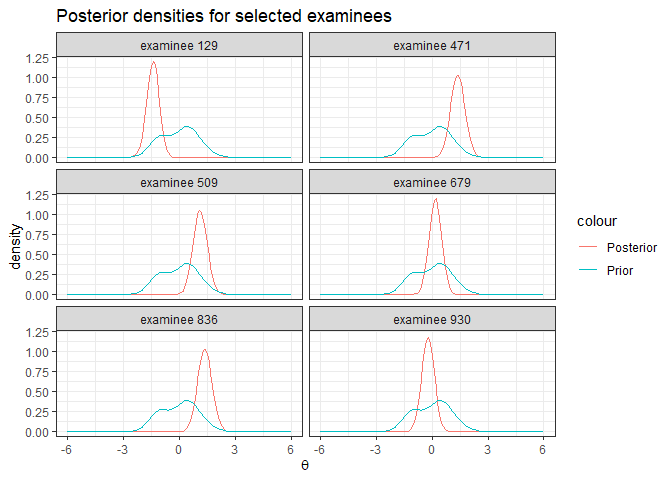
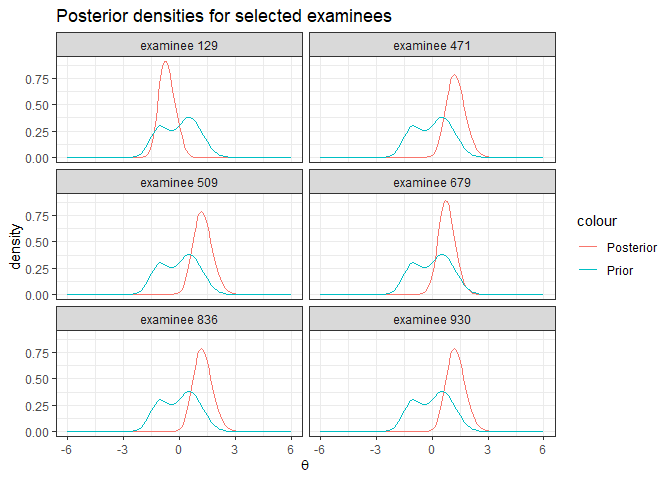
Incremet version number to 1.9.0.

diff --git a/README.md b/README.md
@@ -16,10 +16,9 @@ status](https://www.r-pkg.org/badges/version-last-release/IRTest)](https://CRAN.
 [![codecov](https://codecov.io/gh/SeewooLi/IRTest/branch/master/graph/badge.svg?token=N5RY2MYSM5)](https://app.codecov.io/gh/SeewooLi/IRTest)
 <!-- badges: end -->
 
-**IRTest** is a useful tool for $\mathcal{\color{red}{IRT}}$ (item
-response theory) parameter $\mathcal{\color{red}{est}}\text{imation}$,
-especially when the violation of normality assumption on latent
-distribution is suspected.  
+**IRTest** is a useful tool for (item response theory) parameter
+}imation, especially when the violation of normality assumption on
+latent distribution is suspected.  
 **IRTest** deals with uni-dimensional latent variable.  
 In **IRTest**, including the conventional usage of Gaussian
 distribution, several methods can be applied for estimation of latent
@@ -63,6 +62,9 @@ Followings are the functions of **IRTest**.
 
 - `reliability` calculates marginal reliability coefficient of IRT.
 
+- `latent_distribution` returns evaluated PDF value(s) of an estimated
+  latent distribution.
+
 - `DataGeneration` generates several objects that can be useful for
   computer simulation studies. Among these are simulated item
   parameters, ability parameters and the corresponding item-response
@@ -93,10 +95,10 @@ library(IRTest)
 An artificial data of 1000 examinees and 20 items.
 
 ``` r
-Alldata <- DataGeneration(seed = 1234,
-                          model_D = rep(2,20),
+Alldata <- DataGeneration(seed = 123456789,
+                          model_D = rep(2,10),
                           N=1000,
-                          nitem_D = 20,
+                          nitem_D = 10,
                           latent_dist = "2NM",
                           m=0,
                           s=1,
@@ -111,14 +113,15 @@ theta <- Alldata$theta
 
 - Analysis
 
-For an illustrative purpose, kernel density estimation (KDE) method is
-used for the estimation of latent distribution.
+For an illustrative purpose, the two-component Gaussian mixture
+distribution (2NM) method is used for the estimation of latent
+distribution.
 
 ``` r
 Mod1 <- 
   IRTest_Dich(
     data = data,
-    latent_dist = "KDE"
+    latent_dist = "2NM"
     )
 ```
 
@@ -127,35 +130,35 @@ Mod1 <-
 ``` r
 summary(Mod1)
 #> Convergence:  
-#> Successfully converged below the threshold of 1e-04 on 23rd iterations. 
+#> Successfully converged below the threshold of 1e-04 on 52nd iterations. 
 #> 
 #> Model Fit:  
-#>    deviance   18383.84 
-#>         AIC   18465.84 
-#>         BIC   18667.05 
+#>    deviance   9573.469 
+#>         AIC   9619.469 
+#>         BIC   9732.347 
 #> 
 #> The Number of Parameters:  
-#>        item   40 
-#>        dist   1 
-#>       total   41 
+#>        item   20 
+#>        dist   3 
+#>       total   23 
 #> 
 #> The Number of Items:  
-#> dichotomous   20 
+#> dichotomous   10 
 #> polyotomous   0 
 #> 
 #> The Estimated Latent Distribution:  
-#> method - KDE 
+#> method - 2NM 
 #> ----------------------------------------
 #>                                           
 #>                                           
 #>                                           
-#>                       @ @ @               
-#>                   . @ @ @ @ @             
-#>         . @ @ @ @ @ @ @ @ @ @ @           
-#>       . @ @ @ @ @ @ @ @ @ @ @ @ @         
-#>     . @ @ @ @ @ @ @ @ @ @ @ @ @ @ .       
-#>   . @ @ @ @ @ @ @ @ @ @ @ @ @ @ @ @ .     
-#> . @ @ @ @ @ @ @ @ @ @ @ @ @ @ @ @ @ @ @ . 
+#>                       . @ @ .             
+#>           .         . @ @ @ @ .           
+#>         @ @ @ . . . @ @ @ @ @ @           
+#>       @ @ @ @ @ @ @ @ @ @ @ @ @ @         
+#>     . @ @ @ @ @ @ @ @ @ @ @ @ @ @ @       
+#>     @ @ @ @ @ @ @ @ @ @ @ @ @ @ @ @ .     
+#>   @ @ @ @ @ @ @ @ @ @ @ @ @ @ @ @ @ @ @   
 #> +---------+---------+---------+---------+
 #> -2        -1        0         1         2
 ```
@@ -185,26 +188,16 @@ knitr::kables(
 
 |    a |     b |   c |
 |-----:|------:|----:|
-| 1.62 | -0.30 |   0 |
-| 1.22 | -1.00 |   0 |
-| 1.73 | -0.90 |   0 |
-| 1.36 | -0.68 |   0 |
-| 2.19 | -0.14 |   0 |
-| 1.17 | -1.03 |   0 |
-| 1.80 | -0.52 |   0 |
-| 1.90 |  1.25 |   0 |
-| 1.06 |  1.71 |   0 |
-| 0.90 |  1.81 |   0 |
-| 2.12 | -1.39 |   0 |
-| 2.23 | -0.02 |   0 |
-| 0.87 |  0.62 |   0 |
-| 2.35 | -0.06 |   0 |
-| 1.50 | -1.08 |   0 |
-| 2.39 |  1.88 |   0 |
-| 2.25 | -0.64 |   0 |
-| 2.25 |  1.78 |   0 |
-| 1.10 |  1.03 |   0 |
-| 1.65 | -0.70 |   0 |
+| 2.25 |  0.09 |   0 |
+| 1.42 |  0.16 |   0 |
+| 2.11 | -1.57 |   0 |
+| 1.94 | -1.15 |   0 |
+| 1.41 | -1.89 |   0 |
+| 2.43 |  0.42 |   0 |
+| 2.41 | -1.57 |   0 |
+| 2.08 | -0.47 |   0 |
+| 1.32 | -0.50 |   0 |
+| 1.17 |  0.33 |   0 |
 
 True item parameters
 
@@ -213,26 +206,16 @@ True item parameters
 
 |    a |     b |   c |
 |-----:|------:|----:|
-| 1.47 | -0.28 |   0 |
-| 1.22 | -0.97 |   0 |
-| 1.77 | -0.84 |   0 |
-| 1.41 | -0.58 |   0 |
-| 1.81 | -0.15 |   0 |
-| 1.19 | -0.99 |   0 |
-| 1.98 | -0.48 |   0 |
-| 1.88 |  1.41 |   0 |
-| 1.14 |  1.51 |   0 |
-| 1.05 |  1.68 |   0 |
-| 1.84 | -1.46 |   0 |
-| 2.20 | -0.05 |   0 |
-| 0.75 |  0.73 |   0 |
-| 2.19 | -0.01 |   0 |
-| 1.54 | -1.10 |   0 |
-| 2.29 |  1.98 |   0 |
-| 2.16 | -0.68 |   0 |
-| 2.44 |  1.76 |   0 |
-| 1.18 |  0.94 |   0 |
-| 1.90 | -0.71 |   0 |
+| 2.15 |  0.12 |   0 |
+| 1.43 |  0.06 |   0 |
+| 2.05 | -1.45 |   0 |
+| 2.07 | -1.03 |   0 |
+| 1.26 | -1.97 |   0 |
+| 2.24 |  0.38 |   0 |
+| 2.21 | -1.68 |   0 |
+| 2.08 | -0.45 |   0 |
+| 1.31 | -0.49 |   0 |
+| 1.06 |  0.41 |   0 |
 
 Estimated item parameters
 
@@ -275,7 +258,7 @@ plot(Mod1, mapping = aes(colour="Estimated"), linewidth = 1) +
       colour="True"),
     linewidth = 1)+
   labs(
-    title="The estimated latent density using 'EHM'", colour= "Type"
+    title="The estimated latent density using '2NM'", colour= "Type"
     )+
   theme_bw()
 ```
@@ -313,37 +296,27 @@ ggplot(data=post_sample, mapping=aes(x=X))+
 
 ``` r
 item_fit(Mod1)
-#>         stat df p.value
-#> 1  13.047984  7  0.0709
-#> 2   8.733441  7  0.2724
-#> 3  19.383423  7  0.0071
-#> 4   6.878263  7  0.4417
-#> 5  11.073217  7  0.1355
-#> 6  13.956565  7  0.0520
-#> 7   4.423842  7  0.7299
-#> 8  14.847199  7  0.0380
-#> 9   9.801792  7  0.2001
-#> 10 18.212654  7  0.0110
-#> 11  6.074096  7  0.5311
-#> 12  9.842054  7  0.1977
-#> 13  7.715410  7  0.3584
-#> 14 26.761115  7  0.0004
-#> 15 18.045903  7  0.0118
-#> 16 17.342742  7  0.0153
-#> 17  9.696964  7  0.2064
-#> 18 41.352840  7  0.0000
-#> 19 19.068656  7  0.0080
-#> 20 11.382014  7  0.1228
+#>        stat df p.value
+#> 1  21.05639  5  0.0008
+#> 2  39.02560  5  0.0000
+#> 3  18.38326  5  0.0025
+#> 4  26.05405  5  0.0001
+#> 5  14.32893  5  0.0136
+#> 6  38.58140  5  0.0000
+#> 7  25.55899  5  0.0001
+#> 8  14.43694  5  0.0131
+#> 9  18.29131  5  0.0026
+#> 10 65.25700  5  0.0000
 ```
 
 - Item response function
 
 ``` r
 # Item response function of Item 1
-p1 <- plot_item(Mod1,10)
-p2 <- plot_item(Mod1,11)
-p3 <- plot_item(Mod1,13)
-p4 <- plot_item(Mod1,16)
+p1 <- plot_item(Mod1,1)
+p2 <- plot_item(Mod1,4)
+p3 <- plot_item(Mod1,8)
+p4 <- plot_item(Mod1,10)
 grid.arrange(p1, p2, p3, p4, ncol=2, nrow=2)
 ```
 
@@ -353,17 +326,19 @@ grid.arrange(p1, p2, p3, p4, ncol=2, nrow=2)
 
 ``` r
 reliability(Mod1)
-#> $rel.summed.score.test
+#> $summed.score.scale
+#> $summed.score.scale$test
 #> test reliability 
-#>        0.8798594 
+#>        0.8133725 
 #> 
-#> $rel.summed.score.item
-#>         1         2         3         4         5         6         7         8 
-#> 0.3059621 0.2192103 0.3503349 0.2841813 0.3877848 0.2114709 0.4183149 0.2753318 
-#>         9        10        11        12        13        14        15        16 
-#> 0.1577073 0.1344473 0.2829392 0.4631938 0.1094399 0.4606663 0.2779550 0.2363950 
-#>        17        18        19        20 
-#> 0.4400902 0.2898488 0.1994503 0.3873396
+#> $summed.score.scale$item
+#>  [1] 0.4586843 0.3014154 0.3020563 0.3805659 0.1425990 0.4534580 0.2688948
+#>  [8] 0.4475414 0.2661783 0.1963062
+#> 
+#> 
+#> $theta.scale
+#> test reliability 
+#>        0.7457047
 ```
 
 - Test information function
@@ -373,6 +348,31 @@ ggplot()+
   stat_function(
     fun = inform_f_test,
     args = list(Mod1)
+  )+ 
+  stat_function(
+    fun=inform_f_item,
+    args = list(Mod1$par_est, 1, "d"),
+    mapping = aes(color="Item 1")
+  )+
+  stat_function(
+    fun=inform_f_item,
+    args = list(Mod1$par_est, 2, "d"),
+    mapping = aes(color="Item 2")
+  )+
+  stat_function(
+    fun=inform_f_item,
+    args = list(Mod1$par_est, 3, "d"),
+    mapping = aes(color="Item 3")
+  )+
+  stat_function(
+    fun=inform_f_item,
+    args = list(Mod1$par_est, 4, "d"),
+    mapping = aes(color="Item 4")
+  )+
+  stat_function(
+    fun=inform_f_item,
+    args = list(Mod1$par_est, 5, "d"),
+    mapping = aes(color="Item 5")
   )+
   lims(x=c(-6,6))+
   labs(title="Test information function", x=expression(theta), y='information')+

diff --git a/NEWS.md b/NEWS.md
@@ -1,3 +1,8 @@
+# IRTest 1.9.0
+
+* `latent_distribution` has been developed. This function evaluates an estimated latent density function.
+* `reliability` calculates a coefficient on the $\theta$ scale.
+
 # IRTest 1.8.1
 
 * Convergence of the estimation algorithm was enhanced for `"PCM"` by inserting latest item parameters instead of inserting starting values repeatedly.
